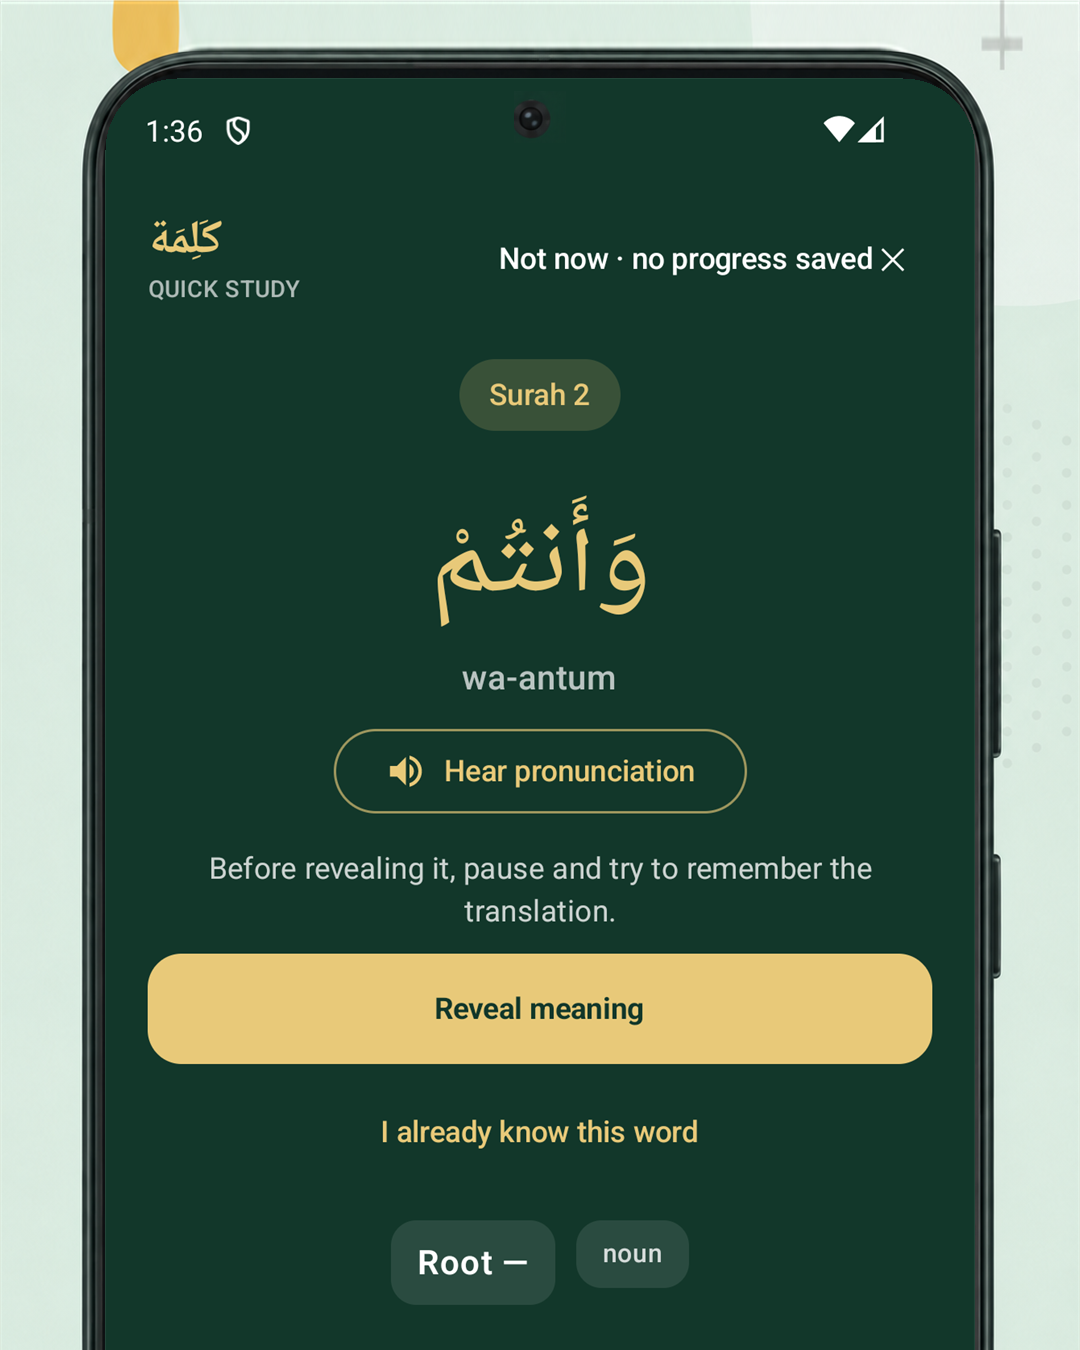
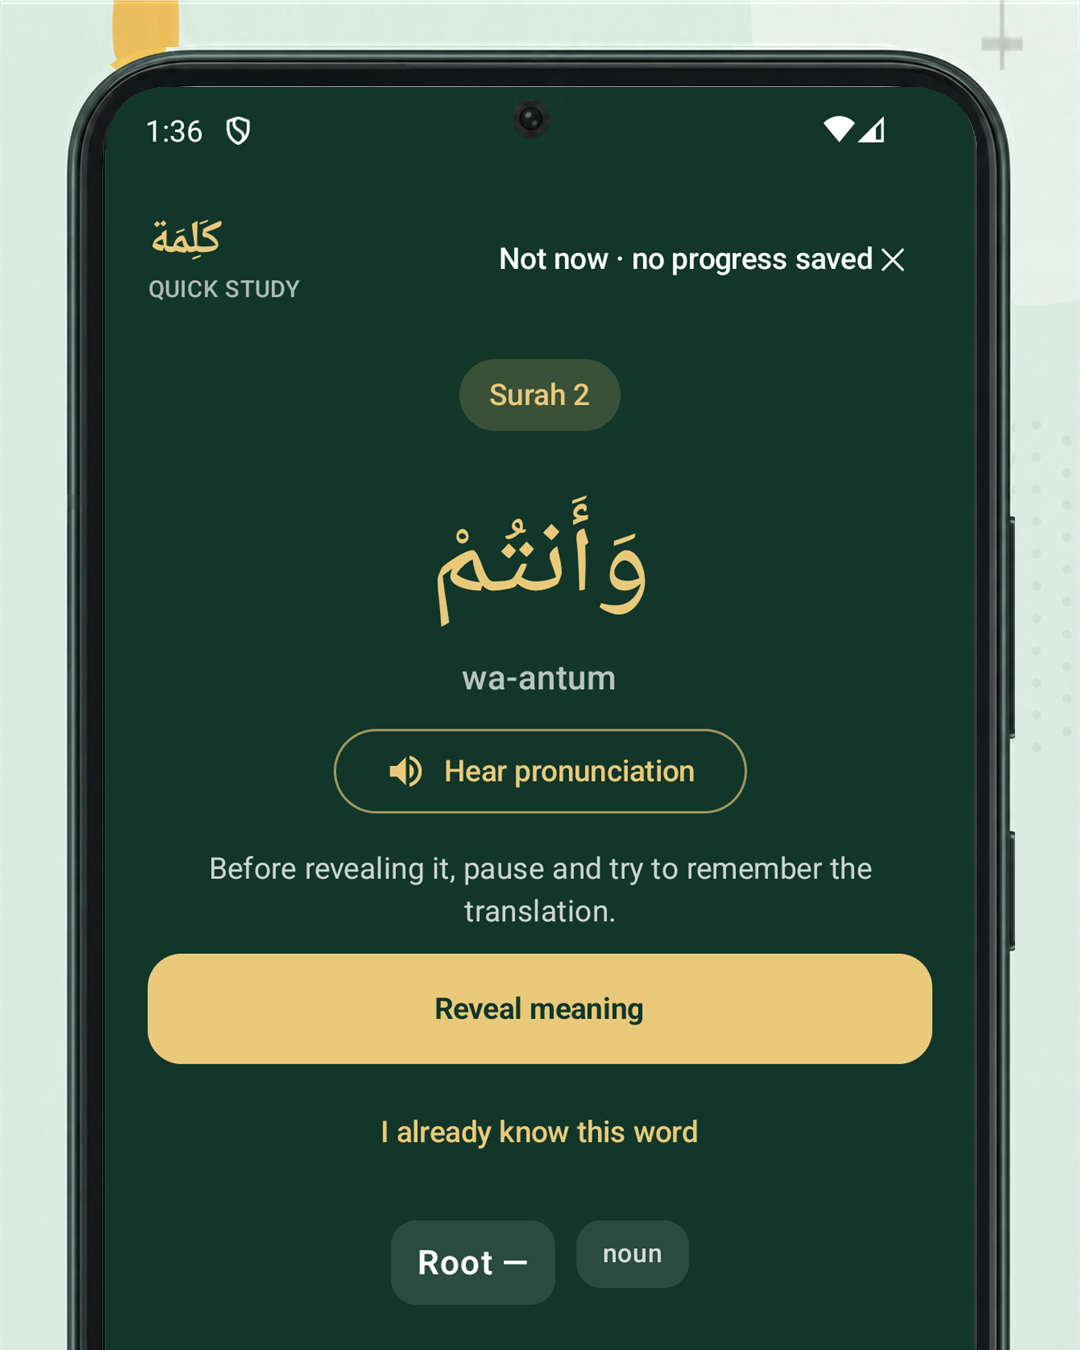
fix(website): align lock-screen artwork bezels
- Match English and Portuguese lock-screen artwork to the shared phone bezel
- Add a repeatable alignment script and refresh artwork hashes

Changed region(s): [[0.0611, 0.0311, 0.9472, 1.0]]

diff --git a/website/src/App.tsx b/website/src/App.tsx
@@ -4,7 +4,7 @@ type Language = 'en' | 'pt';
 type Route = '/' | '/privacy' | '/support';
 type FeatureIconName = 'lockscreen' | 'quiz' | 'widget' | 'audio' | 'quran' | 'progress';
 
-const artworkRevision = '0.30.5-2026-08-29-webp';
+const artworkRevision = '0.30.5-2026-08-29-shared-bezel';
 
 const facts = {
   email: 'uthman-al-brazili@proton.me',
